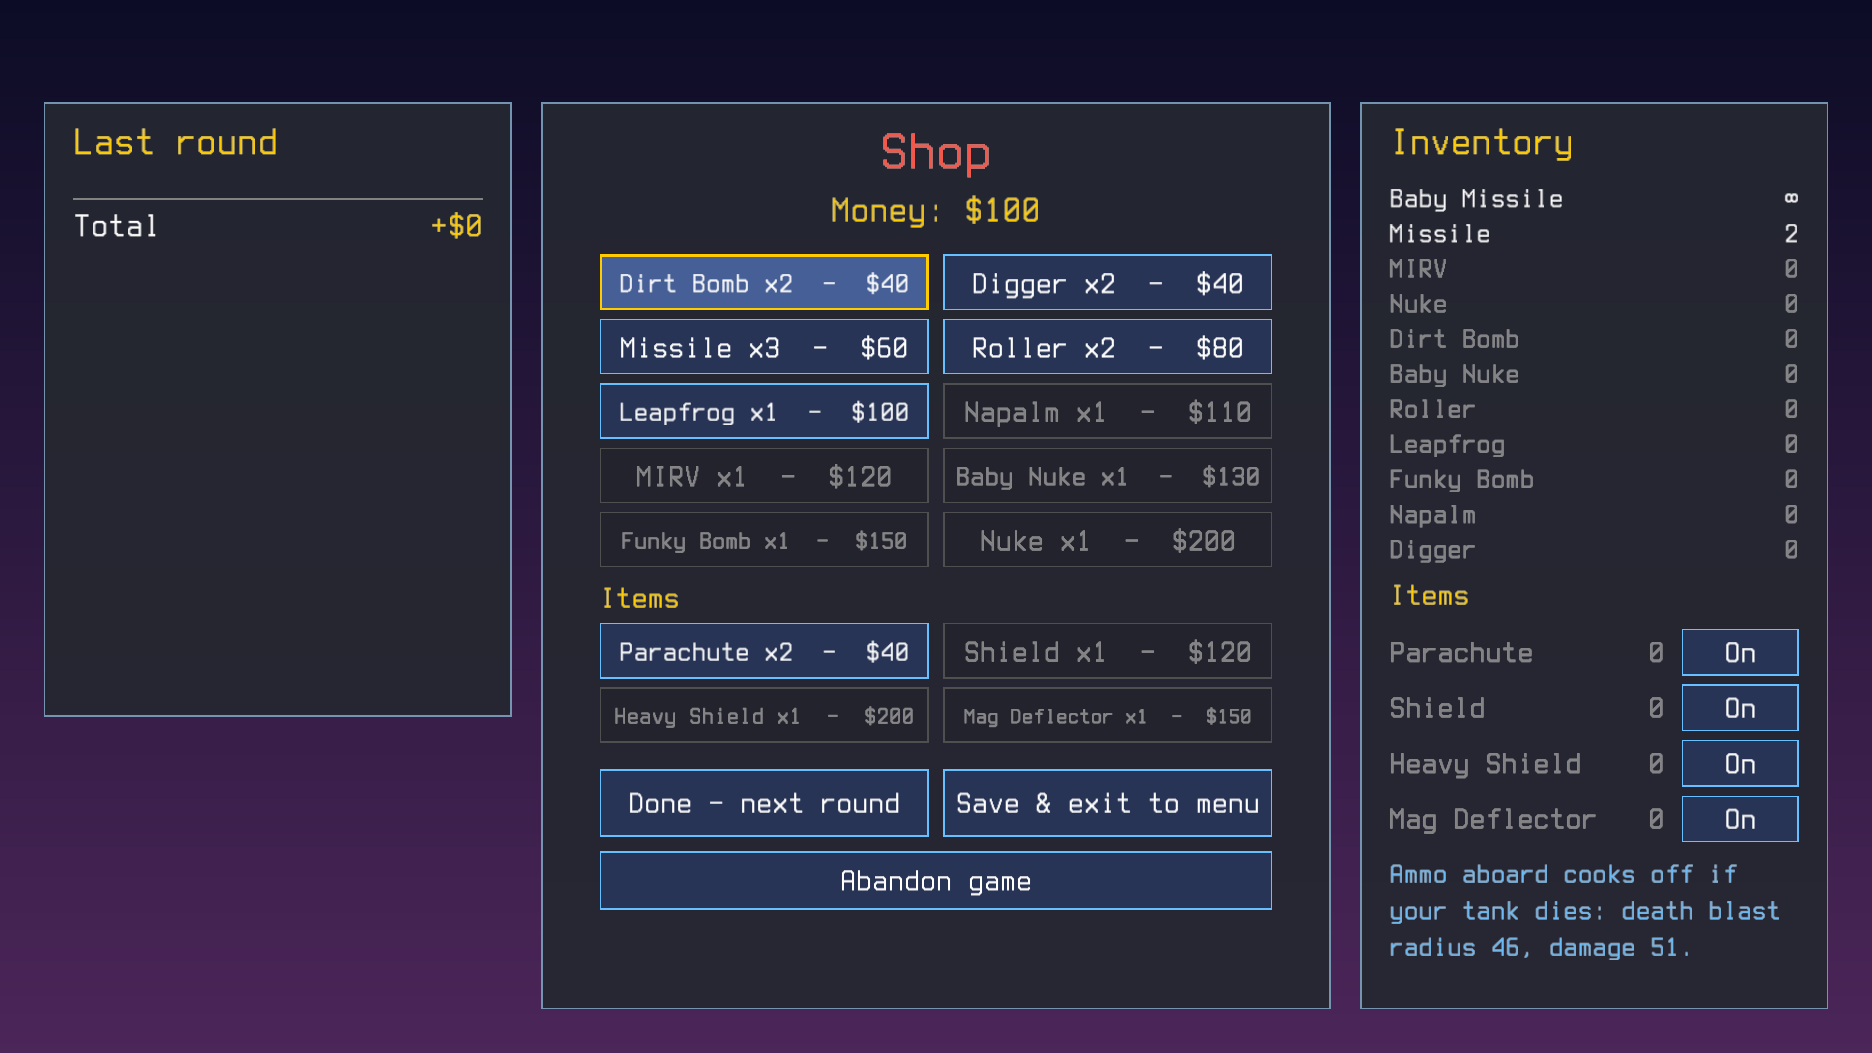
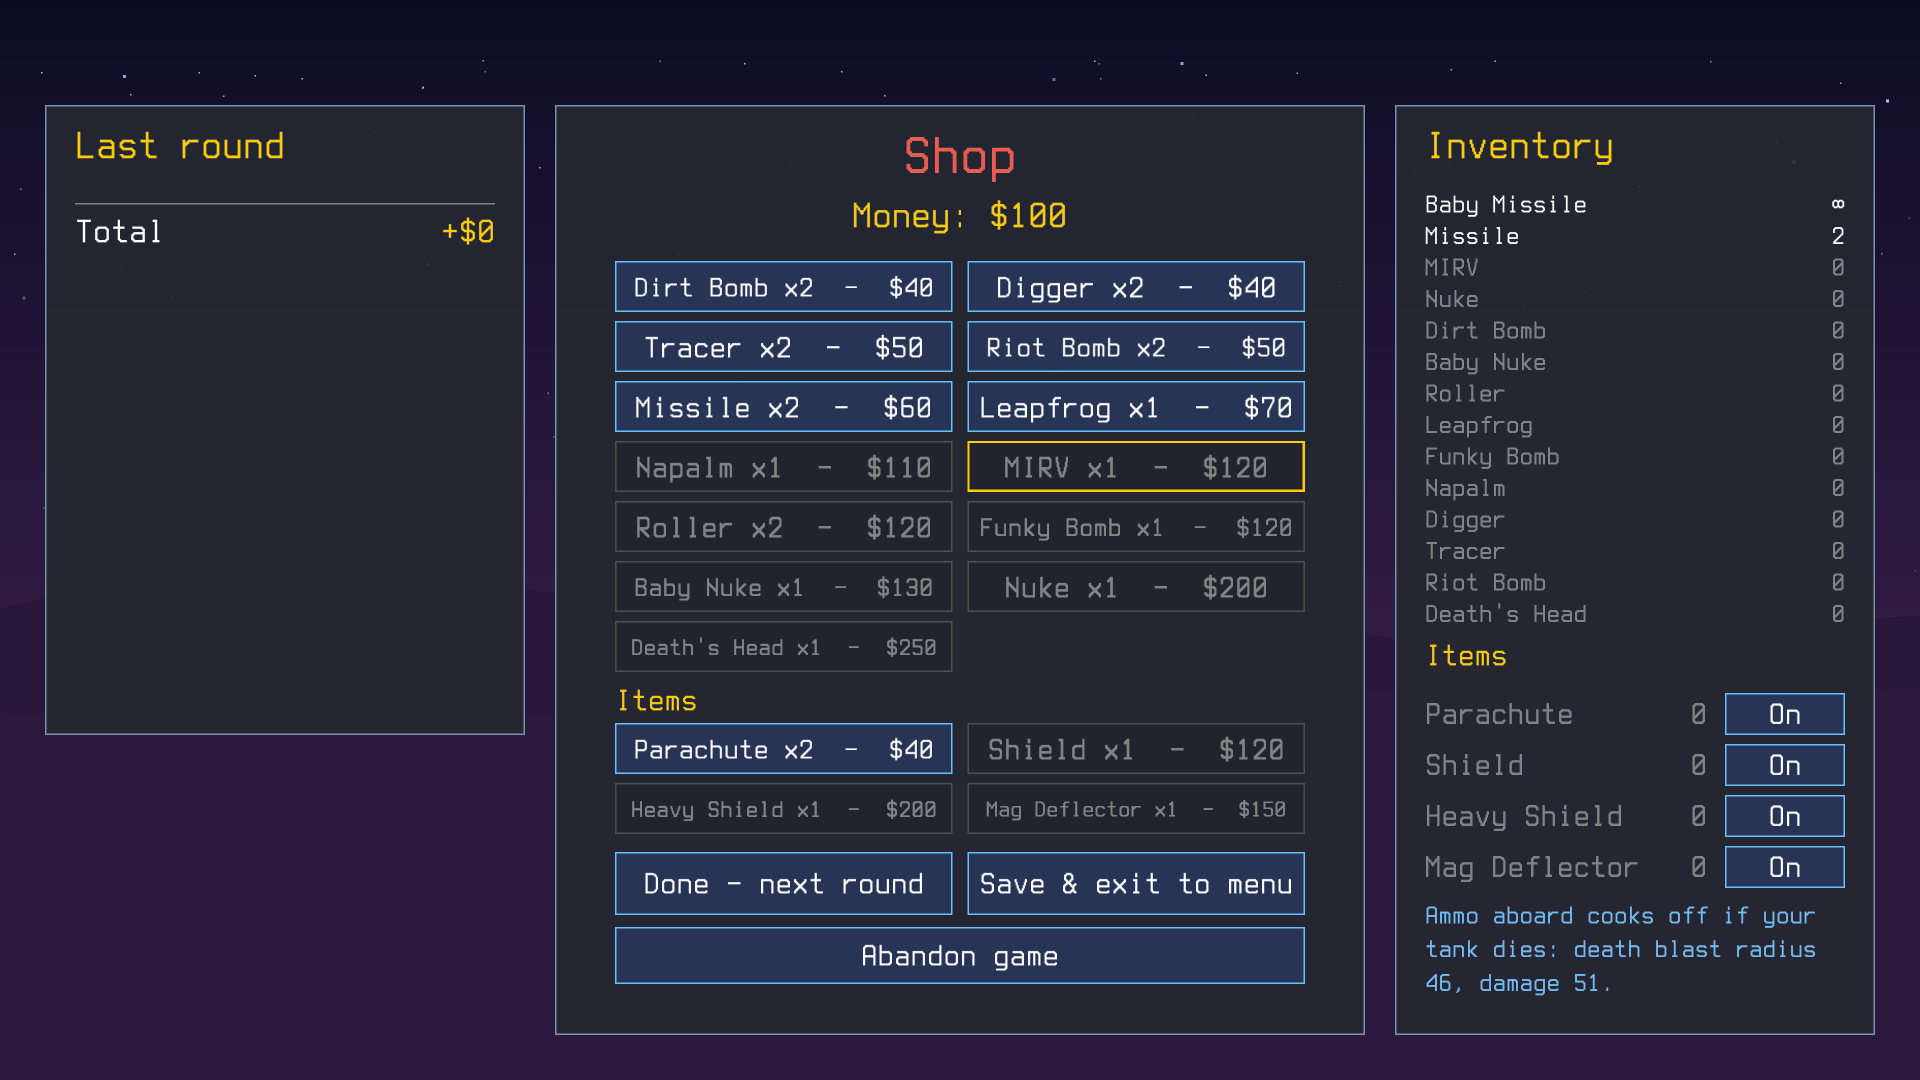
docs: new README screenshots with the new ground and sky

diff --git a/docs/DEVELOPMENT.md b/docs/DEVELOPMENT.md
@@ -293,7 +293,8 @@ The README's screenshots in `docs/screenshots/` come from `--screen <name> --sho
 `arsenal` (saved as `battle.png`), `menu`, `shop`, `setup` and `custom` (saved as `custom-bot.png`). A shot holds only
 the 16:9 game area, whatever the window's shape. Build with `SCORCH_BUILD_VERSION=<release>` so the corner shows a plain
 version (then use a profile with `"check_updates": false`, or the menu asks about updates), regenerate them when screens
-change, and shrink them with `oxipng -o 4 --strip safe`.
+change. Take them fullscreen (`"fullscreen": true` in the profile) on a 4K screen, scale them down to 1920x1080
+(`magick <file> -filter Box -resize 1920x1080 <file>`) and shrink them with `oxipng -o 4 --strip safe`.
 
 ## Font
 
